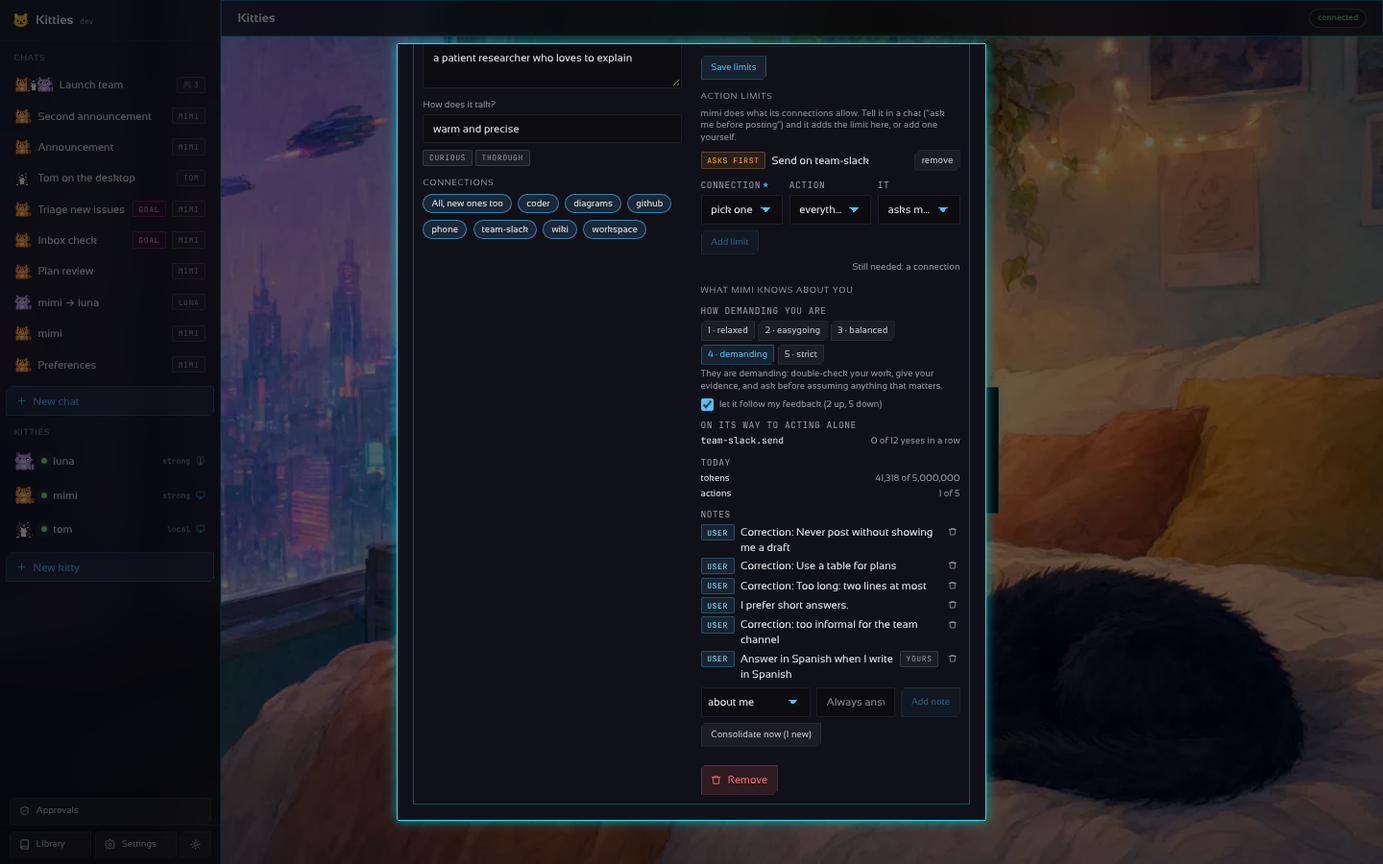
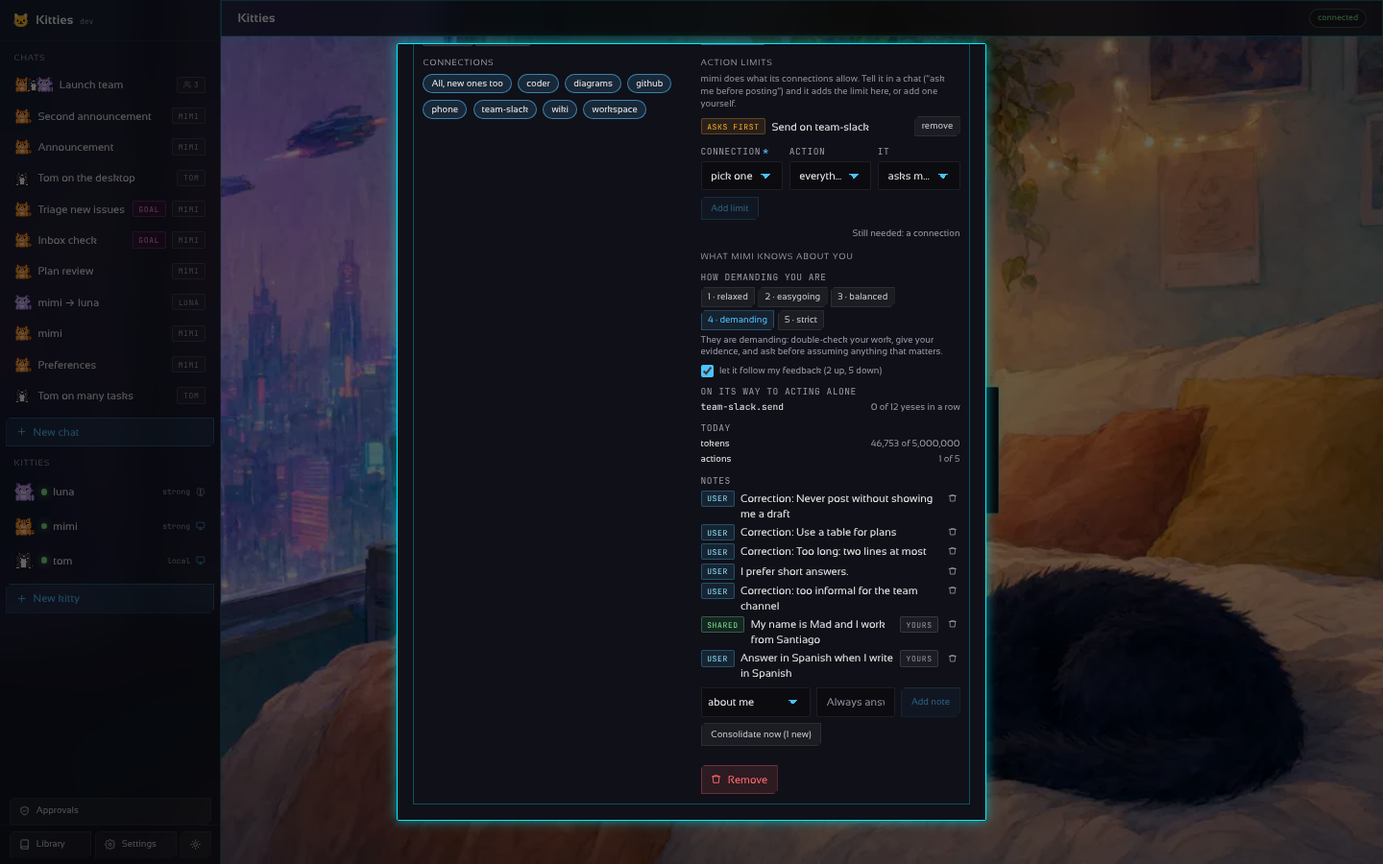
feat(memory): shared notes every kitty knows
A new scope, shared, kept once in memory/_shared.json: it goes into every kitty's
prompt, is listed and editable in each kitty's Memory panel and through the MCP
memory tools, and a kitty can write it too. A kitty's distillation neither
rewrites nor drops it, and removing a kitty keeps it.

Claude-Session: https://claude.ai/code/session_017Z7sUco1f5NiHzWMKUE7RZ

diff --git a/site/es/index.html b/site/es/index.html
@@ -34,7 +34,7 @@
 <section class="proof"><div class="wrap"><ul><li>11+ proveedores de IA</li><li>Linux · macOS · Windows · Android</li><li>Versiones firmadas y con autoactualización</li><li>English · Español · Português</li></ul></div></section>
 <section class="wrap problem"><h2>Los chatbots hablan. Las kitties <em>hacen</em>.</h2><p class="lead">La mayoría de asistentes se quedan en el consejo. Una kitty abre el sitio, llena el formulario, lee el resultado y te informa — dentro de un contenedor, nunca en tu equipo.</p>
 <div class="tw"><table><thead><tr><th></th><th>Chatbot</th><th class="us">Kitties</th></tr></thead><tbody><tr><th scope="row">Trabaja en apps reales</th><td>Solo texto</td><td>Navegador, editor, archivos, ofimática</td></tr><tr><th scope="row">Funciona sin ti</th><td>No</td><td>Metas, horarios, eventos</td></tr><tr><th scope="row">Seguro darle acceso</th><td>Tu equipo</td><td>Escritorio Docker aislado</td></tr><tr><th scope="row">Tú eliges el modelo</th><td>Un proveedor</td><td>Cualquiera, por kitty</td></tr><tr><th scope="row">Mantienes el control</th><td>Esperanza</td><td>Aprobaciones, límites, toma de control</td></tr></tbody></table></div></section>
-<section id="features" class="wrap"><h2>Todo lo que un equipo de agentes necesita</h2><p class="lead">Hecho para la autonomía, diseñado para que sigas al mando.</p><div class="grid"><article class="card"><img src="../img/live.webp" alt="" loading="lazy" width="720" height="450"><h3>Un escritorio real por kitty</h3><p>Pídele abrir un sitio o llenar un formulario. Mira una captura tras cada acción y el chat muestra cada paso. Obsérvala en vivo en H.264 (voxl) o toma el control para una contraseña o un captcha.</p></article><article class="card"><img src="../img/goals.webp" alt="" loading="lazy" width="720" height="450"><h3>Autonomía, con presupuesto</h3><p>Metas programadas o por eventos, presupuesto diario, reintentos, una kitty de respaldo, delegación entre kitties y un diario de todo.</p></article><article class="card"><img src="../img/approvals.webp" alt="" loading="lazy" width="720" height="450"><h3>Una confianza que crece</h3><p>Memoria persistente, pulgares que enseñan tus criterios, límites de acción y aprobaciones que se relajan a medida que gana confianza.</p></article><article class="card"><img src="../img/connectors.webp" alt="" loading="lazy" width="720" height="450"><h3>Conectores, no claves pegadas</h3><p>Slack, GitHub, Gmail, Google Workspace, Microsoft 365, Spotify, Stripe, Home Assistant y más — con inicio de sesión donde el servicio lo permite.</p></article><article class="card"><img src="../img/group.webp" alt="" loading="lazy" width="720" height="450"><h3>Chats grupales</h3><p>Abre un hilo y deja que varias kitties trabajen juntas, cada una con su personalidad y su modelo.</p></article><article class="card"><img src="../img/phone-menu.webp" alt="" loading="lazy" width="720" height="450"><h3>Donde estés</h3><p>CLI, app de escritorio, app Android y modo servidor con https. Las notificaciones llegan al móvil cuando una kitty necesita un sí.</p></article></div></section>
+<section id="features" class="wrap"><h2>Todo lo que un equipo de agentes necesita</h2><p class="lead">Hecho para la autonomía, diseñado para que sigas al mando.</p><div class="grid"><article class="card"><img src="../img/live.webp" alt="" loading="lazy" width="720" height="450"><h3>Un escritorio real por kitty</h3><p>Pídele abrir un sitio o llenar un formulario. Mira una captura tras cada acción y el chat muestra cada paso. Obsérvala en vivo en H.264 (voxl) o toma el control para una contraseña o un captcha.</p></article><article class="card"><img src="../img/goals.webp" alt="" loading="lazy" width="720" height="450"><h3>Autonomía, con presupuesto</h3><p>Metas programadas o por eventos, presupuesto diario, reintentos, una kitty de respaldo, delegación entre kitties y un diario de todo.</p></article><article class="card"><img src="../img/approvals.webp" alt="" loading="lazy" width="720" height="450"><h3>Una confianza que crece</h3><p>Memoria persistente, propia y compartida entre todos los kitties, pulgares que enseñan tus criterios, límites de acción y aprobaciones que se relajan a medida que gana confianza.</p></article><article class="card"><img src="../img/connectors.webp" alt="" loading="lazy" width="720" height="450"><h3>Conectores, no claves pegadas</h3><p>Slack, GitHub, Gmail, Google Workspace, Microsoft 365, Spotify, Stripe, Home Assistant y más — con inicio de sesión donde el servicio lo permite.</p></article><article class="card"><img src="../img/group.webp" alt="" loading="lazy" width="720" height="450"><h3>Chats grupales</h3><p>Abre un hilo y deja que varias kitties trabajen juntas, cada una con su personalidad y su modelo.</p></article><article class="card"><img src="../img/phone-menu.webp" alt="" loading="lazy" width="720" height="450"><h3>Donde estés</h3><p>CLI, app de escritorio, app Android y modo servidor con https. Las notificaciones llegan al móvil cuando una kitty necesita un sí.</p></article></div></section>
 <section id="desktop" class="wrap"><h2>Un escritorio que da gusto mirar</h2><p class="lead">Lumen, un gestor de ventanas ligero basado en Openbox, con su propia barra — apps fijadas, un reproductor, el clima, un reloj — en tema oscuro con iconos Lucide y tipografía Sansation. Bonito a propósito.</p>
 <figure class="one"><img src="../img/desktop.webp" alt="El menú de apps abierto en el escritorio del gatito" loading="lazy" width="1280" height="800"><figcaption>El menú de apps abierto en el escritorio del gatito</figcaption></figure></section>
 <section id="chat" class="wrap"><h2>Chat a un lado, escritorio al otro</h2><p class="lead">En pantallas anchas el chat se divide en dos: las respuestas de la kitty a la izquierda; sus pasos y la última captura, en grande, a la derecha. En el móvil pasan a ser pestañas.</p>

diff --git a/site/index.html b/site/index.html
@@ -35,7 +35,7 @@
 <section class="proof"><div class="wrap"><ul><li>11+ AI providers</li><li>Linux · macOS · Windows · Android</li><li>Signed, self-updating releases</li><li>English · Español · Português</li></ul></div></section>
 <section class="wrap problem"><h2>Chatbots talk. Kitties <em>do</em>.</h2><p class="lead">Most assistants stop at advice. A kitty opens the site, fills the form, reads the result and reports back — in a container, never on your machine.</p>
 <div class="tw"><table><thead><tr><th></th><th>Chatbot</th><th class="us">Kitties</th></tr></thead><tbody><tr><th scope="row">Works on real apps</th><td>Text only</td><td>Browser, editor, files, office</td></tr><tr><th scope="row">Runs while you are away</th><td>No</td><td>Goals, schedules, events</td></tr><tr><th scope="row">Safe to give access</th><td>Your machine</td><td>Isolated Docker desktop</td></tr><tr><th scope="row">Your choice of model</th><td>One vendor</td><td>Any provider, per kitty</td></tr><tr><th scope="row">You stay in control</th><td>Hope</td><td>Approvals, limits, take-over</td></tr></tbody></table></div></section>
-<section id="features" class="wrap"><h2>Everything a team of agents needs</h2><p class="lead">Built for autonomy, designed to stay under your control.</p><div class="grid"><article class="card"><img src="img/live.webp" alt="" loading="lazy" width="720" height="450"><h3>A real desktop per kitty</h3><p>Ask it to open a site or fill a form. It looks at a screenshot after every action and the chat shows each step. Watch it live in H.264 (voxl), or take control for a password or a captcha.</p></article><article class="card"><img src="img/goals.webp" alt="" loading="lazy" width="720" height="450"><h3>Autonomy, with a budget</h3><p>Goals on a schedule or triggered by events, daily budgets, retries, a backup kitty, delegation between kitties and a journal of everything.</p></article><article class="card"><img src="img/approvals.webp" alt="" loading="lazy" width="720" height="450"><h3>Trust that grows</h3><p>Memory that persists, thumbs that teach your standards, action limits and approvals that loosen as a kitty earns trust.</p></article><article class="card"><img src="img/connectors.webp" alt="" loading="lazy" width="720" height="450"><h3>Connectors, not pasted keys</h3><p>Slack, GitHub, Gmail, Google Workspace, Microsoft 365, Spotify, Stripe, Home Assistant and more — with sign-in where the service allows it.</p></article><article class="card"><img src="img/group.webp" alt="" loading="lazy" width="720" height="450"><h3>Group chats</h3><p>Open one thread and let several kitties work on it together, each with its own personality and model.</p></article><article class="card"><img src="img/phone-menu.webp" alt="" loading="lazy" width="720" height="450"><h3>Everywhere you are</h3><p>CLI, desktop app, Android app, and a server mode with https. Notifications reach your phone when a kitty needs a yes.</p></article></div></section>
+<section id="features" class="wrap"><h2>Everything a team of agents needs</h2><p class="lead">Built for autonomy, designed to stay under your control.</p><div class="grid"><article class="card"><img src="img/live.webp" alt="" loading="lazy" width="720" height="450"><h3>A real desktop per kitty</h3><p>Ask it to open a site or fill a form. It looks at a screenshot after every action and the chat shows each step. Watch it live in H.264 (voxl), or take control for a password or a captcha.</p></article><article class="card"><img src="img/goals.webp" alt="" loading="lazy" width="720" height="450"><h3>Autonomy, with a budget</h3><p>Goals on a schedule or triggered by events, daily budgets, retries, a backup kitty, delegation between kitties and a journal of everything.</p></article><article class="card"><img src="img/approvals.webp" alt="" loading="lazy" width="720" height="450"><h3>Trust that grows</h3><p>Memory that persists, its own and shared by every kitty, thumbs that teach your standards, action limits and approvals that loosen as a kitty earns trust.</p></article><article class="card"><img src="img/connectors.webp" alt="" loading="lazy" width="720" height="450"><h3>Connectors, not pasted keys</h3><p>Slack, GitHub, Gmail, Google Workspace, Microsoft 365, Spotify, Stripe, Home Assistant and more — with sign-in where the service allows it.</p></article><article class="card"><img src="img/group.webp" alt="" loading="lazy" width="720" height="450"><h3>Group chats</h3><p>Open one thread and let several kitties work on it together, each with its own personality and model.</p></article><article class="card"><img src="img/phone-menu.webp" alt="" loading="lazy" width="720" height="450"><h3>Everywhere you are</h3><p>CLI, desktop app, Android app, and a server mode with https. Notifications reach your phone when a kitty needs a yes.</p></article></div></section>
 <section id="desktop" class="wrap"><h2>A desktop worth watching</h2><p class="lead">Lumen, a light window manager based on Openbox, with its own shelf — pinned apps, a player, the weather, a clock — in a dark theme with Lucide icons and Sansation type. Beautiful on purpose.</p>
 <figure class="one"><img src="img/desktop.webp" alt="The apps menu open on the kitty desktop" loading="lazy" width="1280" height="800"><figcaption>The apps menu open on the kitty desktop</figcaption></figure></section>
 <section id="chat" class="wrap"><h2>Chat on one side, desktop on the other</h2><p class="lead">On a wide screen the chat splits in two: the kitty’s replies on the left, its steps and the latest screenshot, large, on the right. On a phone the two become tabs.</p>

diff --git a/desktop/frontend/src/Memory.tsx b/desktop/frontend/src/Memory.tsx
@@ -14,7 +14,11 @@ const LABEL = "block text-xs text-[var(--t3)] mb-1 mt-3 uppercase tracking-wider
 const INPUT = "w-full px-3 py-2 text-sm";
 const LEVELS = ["relaxed", "easygoing", "balanced", "demanding", "strict"];
 
-const SCOPE_TAG: Record<string, string> = { user: "tag-accent", work: "tag-amber" };
+const SCOPE_TAG: Record<string, string> = {
+  user: "tag-accent",
+  work: "tag-amber",
+  shared: "tag-green",
+};
 
 export function MemoryPanel({ kitty }: { kitty: Kitty }) {
   const [view, setView] = useState<MemoryView | null>(null);
@@ -140,7 +144,10 @@ export function MemoryPanel({ kitty }: { kitty: Kitty }) {
       <div class="flex flex-col gap-1" data-testid="notes">
         {view.notes.map((n) => (
           <div key={n.id} class="flex items-start gap-2 text-sm">
-            <span class={`tag ${SCOPE_TAG[n.scope] || "tag-magenta"}`}>
+            <span
+              class={`tag ${SCOPE_TAG[n.scope] || "tag-magenta"}`}
+              title={n.scope === "shared" ? t("Every kitty knows it") : undefined}
+            >
               {n.scope.startsWith("project:") ? n.scope.replace("project:", "") : t(n.scope)}
             </span>
             <span class="flex-1 min-w-0">{n.text}</span>
@@ -168,6 +175,7 @@ export function MemoryPanel({ kitty }: { kitty: Kitty }) {
         >
           <option value="user">{t("about me")}</option>
           <option value="work">{t("about the work")}</option>
+          <option value="shared">{t("for every kitty")}</option>
         </select>
         <input
           class={INPUT}

diff --git a/desktop/frontend/e2e/screens.spec.ts b/desktop/frontend/e2e/screens.spec.ts
@@ -405,7 +405,10 @@ test("what a kitty knows about you: its level of demand, its notes and how far i
   await expect(page.getByTestId("level")).toContainText("They are demanding");
   const notes = page.getByTestId("notes");
   await expect(notes).toContainText("Answer in Spanish when I write in Spanish");
-  await expect(notes.locator(".tag", { hasText: "yours" })).toHaveCount(1);
+  await expect(notes.locator(".tag", { hasText: "yours" })).toHaveCount(2);
+  // The shared note is every kitty's: tom sees it too.
+  await expect(notes.locator(".tag", { hasText: "shared" })).toHaveCount(1);
+  await expect(notes).toContainText("My name is Mad and I work from Santiago");
   await expect(notes).toContainText("Correction: Too long: two lines at most");
   await expect(notes).toContainText("I prefer short answers");
   // The yes it gave to Slack is on its way to being trusted: twelve in a row for a demanding person.
@@ -428,6 +431,9 @@ test("what a kitty knows about you: its level of demand, its notes and how far i
   await expect(page.getByTestId("level")).toContainText("They are easygoing");
   await memory.getByRole("button", { name: "4 · demanding" }).click();
   await expect(page.getByTestId("level")).toContainText("They are demanding");
+  await open(page, `#kitty/${ids.tom}`);
+  await openConfig(page);
+  await expect(page.getByTestId("notes")).toContainText("My name is Mad and I work from Santiago");
 });
 
 test("notifications: pick a channel, send a test and be told when something waits", async ({

diff --git a/desktop/frontend/e2e/global-setup.ts b/desktop/frontend/e2e/global-setup.ts
@@ -153,6 +153,11 @@ export default async function globalSetup(): Promise<() => Promise<void>> {
     text: "Answer in Spanish when I write in Spanish",
     scope: "user",
   });
+  // And one every kitty knows.
+  await api("POST", "/v1/kitties/mimi/memory", {
+    text: "My name is Mad and I work from Santiago",
+    scope: "shared",
+  });
   const memo = await newChat(["mimi"], "Preferences");
   await say(memo, "Mimi, remember that I prefer short answers.");
   await api("POST", `/v1/chats/${single}/turns/1/feedback`, {

diff --git a/desktop/frontend/src/i18n/es/work.ts b/desktop/frontend/src/i18n/es/work.ts
@@ -228,6 +228,9 @@ const dict: Dictionary = {
   "Scope of the note": "Alcance de la nota",
   "about me": "sobre mí",
   "about the work": "sobre el trabajo",
+  shared: "compartida",
+  "for every kitty": "para todos los kitties",
+  "Every kitty knows it": "Todos los kitties la conocen",
   "Always answer in Spanish": "Responde siempre en español",
   "A note for it to keep": "Una nota para que la guarde",
   "Add note": "Agregar nota",

diff --git a/desktop/frontend/src/i18n/pt/work.ts b/desktop/frontend/src/i18n/pt/work.ts
@@ -225,6 +225,9 @@ const dict: Dictionary = {
   "Scope of the note": "Alcance da nota",
   "about me": "sobre mim",
   "about the work": "sobre o trabalho",
+  shared: "compartilhada",
+  "for every kitty": "para todos os kitties",
+  "Every kitty knows it": "Todos os kitties a conhecem",
   "Always answer in Spanish": "Responda sempre em português",
   "A note for it to keep": "Uma nota para ele guardar",
   "Add note": "Adicionar nota",

diff --git a/internal/memory/memory.go b/internal/memory/memory.go
@@ -20,17 +20,23 @@ import (
 	"time"
 )
 
-// The scopes of a note: what the person likes, how the work goes, or a project.
+// The scopes of a note: what the person likes, how the work goes, a project, or what every
+// kitty should know (shared).
 const (
-	ScopeUser = "user"
-	ScopeWork = "work"
+	ScopeUser   = "user"
+	ScopeWork   = "work"
+	ScopeShared = "shared"
 )
+
+// sharedKey is where the notes every kitty shares are kept, beside the kitties' own. A kitty's
+// id never starts with an underscore, so it cannot clash with one.
+const sharedKey = "_shared"
 
 var projectScope = regexp.MustCompile(`^project:[a-z0-9][a-z0-9 _-]{0,39}$`)
 
-// ValidScope reports whether s names a scope: user, work or project:<name>.
+// ValidScope reports whether s names a scope: user, work, shared or project:<name>.
 func ValidScope(s string) bool {
-	return s == ScopeUser || s == ScopeWork || projectScope.MatchString(s)
+	return s == ScopeUser || s == ScopeWork || s == ScopeShared || projectScope.MatchString(s)
 }
 
 // Slug is a project's name as a scope: lowercase letters, digits, spaces, dashes.
@@ -186,7 +192,10 @@ func (s *Store) Remember(kitty, scope, text, source string, pinned bool) (*Note,
 		scope = ScopeUser
 	}
 	if !ValidScope(scope) {
-		return nil, fmt.Errorf("scope %q is not user, work or project:<name>", scope)
+		return nil, fmt.Errorf("scope %q is not user, work, shared or project:<name>", scope)
+	}
+	if scope == ScopeShared {
+		kitty = sharedKey
 	}
 	s.mu.Lock()
 	defer s.mu.Unlock()
@@ -227,16 +236,18 @@ func (s *Store) evict(f *file) {
 	}
 }
 
-// Forget removes one note.
+// Forget removes one note, the kitty's own or a shared one.
 func (s *Store) Forget(kitty, id string) error {
 	s.mu.Lock()
 	defer s.mu.Unlock()
-	f := s.load(kitty)
-	for i, n := range f.Notes {
-		if n.ID == id {
-			f.Notes = append(f.Notes[:i], f.Notes[i+1:]...)
-			s.save(kitty, f)
-			return nil
+	for _, key := range []string{kitty, sharedKey} {
+		f := s.load(key)
+		for i, n := range f.Notes {
+			if n.ID == id {
+				f.Notes = append(f.Notes[:i], f.Notes[i+1:]...)
+				s.save(key, f)
+				return nil
+			}
 		}
 	}
 	return fmt.Errorf("no such note %q", id)
@@ -254,12 +265,17 @@ func (s *Store) ForgetKitty(kitty string) error {
 	return err
 }
 
-// Notes returns a kitty's notes of a scope ("" for all), strongest first.
+// Notes returns a kitty's notes of a scope ("" for all), strongest first. They include the
+// shared notes, which every kitty sees.
 func (s *Store) Notes(kitty, scope string) []Note {
 	s.mu.Lock()
 	defer s.mu.Unlock()
 	var out []Note
-	for _, n := range s.load(kitty).Notes {
+	all := s.load(kitty).Notes
+	if kitty != sharedKey {
+		all = append(append([]*Note(nil), all...), s.load(sharedKey).Notes...)
+	}
+	for _, n := range all {
 		if scope == "" || n.Scope == scope {
 			out = append(out, *n)
 		}
@@ -378,7 +394,8 @@ func (s *Store) Distilled(kitty string, notes []Note) {
 		for _, k := range kept {
 			dup = dup || (k.Scope == n.Scope && norm(k.Text) == norm(n.Text))
 		}
-		if dup || !ValidScope(n.Scope) || strings.TrimSpace(n.Text) == "" {
+		// Shared notes are tended by hand or by remember, never replaced by one kitty's distillation.
+		if dup || !ValidScope(n.Scope) || n.Scope == ScopeShared || strings.TrimSpace(n.Text) == "" {
 			continue
 		}
 		kept = append(kept, &Note{ID: s.id(), Scope: n.Scope, Text: clip(n.Text, 240), Strength: max(1, n.Strength), At: s.now(), Updated: s.now(), Source: "distilled"})
@@ -408,12 +425,14 @@ func (s *Store) Prompt(kitty, person, project string) string {
 	}
 	notes := s.Notes(kitty, "")
 	p := s.Profile(kitty)
-	var user, work, proj []string
+	var user, work, proj, shared []string
 	for _, n := range notes {
 		line := "- " + n.Text
 		switch {
 		case n.Scope == ScopeUser && len(user) < 12:
 			user = append(user, line)
+		case n.Scope == ScopeShared && len(shared) < 12:
+			shared = append(shared, line)
 		case n.Scope == ScopeWork && len(work) < 8:
 			work = append(work, line)
 		case project != "" && n.Scope == "project:"+project && len(proj) < 10:
@@ -424,6 +443,9 @@ func (s *Store) Prompt(kitty, person, project string) string {
 	fmt.Fprintf(&b, "How demanding %s is with you: %d of 5. %s\n", person, p.Demand, LevelText(p.Demand))
 	if len(user) > 0 {
 		fmt.Fprintf(&b, "What you have learned about %s and how they like things done (follow it):\n%s\n", person, strings.Join(user, "\n"))
+	}
+	if len(shared) > 0 {
+		fmt.Fprintf(&b, "What every kitty of %s knows (shared, follow it):\n%s\n", person, strings.Join(shared, "\n"))
 	}
 	if len(work) > 0 {
 		fmt.Fprintf(&b, "Lessons about the work:\n%s\n", strings.Join(work, "\n"))

diff --git a/internal/memory/memory_test.go b/internal/memory/memory_test.go
@@ -19,7 +19,7 @@ func open(t *testing.T) *Store {
 }
 
 func TestScopesAndSlugs(t *testing.T) {
-	for _, ok := range []string{"user", "work", "project:launch", "project:q4 report", "project:a-b_c"} {
+	for _, ok := range []string{"user", "work", "shared", "project:launch", "project:q4 report", "project:a-b_c"} {
 		if !ValidScope(ok) {
 			t.Errorf("%q is a scope", ok)
 		}
@@ -238,5 +238,59 @@ func TestDistilledPersistenceAndPrompt(t *testing.T) {
 		if _, err := bad.Remember("k", ScopeUser, "x", "kitty", false); err != nil {
 			t.Error("an unwritable memory still works in memory")
 		}
+	}
+}
+
+func TestSharedNotes(t *testing.T) {
+	s := open(t)
+	sh, err := s.Remember("k1", ScopeShared, "Answer in Spanish", "person", true)
+	if err != nil || sh.Scope != ScopeShared {
+		t.Fatalf("shared: %+v %v", sh, err)
+	}
+	if _, err := s.Remember("k1", ScopeUser, "Likes tables", "kitty", false); err != nil {
+		t.Fatal(err)
+	}
+	// Every kitty sees the shared note; only k1 its own.
+	if n := s.Notes("k2", ""); len(n) != 1 || n[0].Text != "Answer in Spanish" {
+		t.Errorf("k2 notes: %+v", n)
+	}
+	if n := s.Notes("k1", ""); len(n) != 2 {
+		t.Errorf("k1 notes: %+v", n)
+	}
+	if n := s.Notes("k1", ScopeShared); len(n) != 1 {
+		t.Errorf("k1 shared: %+v", n)
+	}
+	if p := s.Prompt("k2", "Mad", ""); !strings.Contains(p, "What every kitty of Mad knows") || !strings.Contains(p, "Answer in Spanish") {
+		t.Errorf("prompt: %q", p)
+	}
+	// The same thing told from another kitty strengthens the one shared note.
+	if again, _ := s.Remember("k2", ScopeShared, "answer in  spanish", "kitty", false); again.ID != sh.ID || again.Strength != 2 {
+		t.Errorf("again: %+v", again)
+	}
+	// A distillation neither drops nor writes shared notes.
+	s.Distilled("k1", []Note{{Scope: ScopeShared, Text: "Invented"}, {Scope: ScopeWork, Text: "Check twice"}})
+	if n := s.Notes("k1", ScopeShared); len(n) != 1 || n[0].Text != "Answer in Spanish" {
+		t.Errorf("after distill: %+v", n)
+	}
+	// Removing a kitty keeps what is shared.
+	if err := s.ForgetKitty("k1"); err != nil {
+		t.Fatal(err)
+	}
+	if n := s.Notes("k3", ""); len(n) != 1 {
+		t.Errorf("after ForgetKitty: %+v", n)
+	}
+	// It is kept on disk, and any kitty can forget it.
+	s2 := Open(s.dir)
+	if n := s2.Notes("k9", ScopeShared); len(n) != 1 {
+		t.Errorf("reopened: %+v", n)
+	}
+	if err := s2.Forget("k9", sh.ID); err != nil {
+		t.Fatal(err)
+	}
+	if n := s2.Notes("k2", ""); len(n) != 0 {
+		t.Errorf("after forget: %+v", n)
+	}
+	if err := s2.Forget("k9", "nope"); err == nil {
+		t.Error("forgetting a missing note")
 	}
 }

diff --git a/internal/gateway/mcp_memory.go b/internal/gateway/mcp_memory.go
@@ -14,7 +14,7 @@ func (s *Server) mcpMemoryTools() []mcp.Tool {
 	return []mcp.Tool{
 		{Name: "memory_list", Description: "What a kitty knows about the person and the work: its notes (id, scope, text, strength), how demanding the person is, and the trust earned per action.",
 			InputSchema: obj([]string{"ref"}, map[string]any{"ref": str("the kitty's id or name"),
-				"scope": str("only this scope: user, work or project:<name>; empty is all")}),
+				"scope": str("only this scope: user, work, shared or project:<name>; empty is all")}),
 			Annotations: mcp.Annotations{ReadOnly: true},
 			Call: func(_ context.Context, raw json.RawMessage) (mcp.Result, error) {
 				var a struct {
@@ -45,7 +45,7 @@ func (s *Server) mcpMemoryTools() []mcp.Tool {
 		{Name: "memory_remember", Description: "Tell a kitty something to keep in mind from now on (a preference, a correction, a fact of a project). Short, one thing each, never secrets. It is pinned: a distillation never drops it.",
 			InputSchema: obj([]string{"ref", "text"}, map[string]any{"ref": str("the kitty's id or name"),
 				"text":  str("the note, up to 240 characters"),
-				"scope": str("user (how the person likes things, the default), work (a lesson about the work) or project:<name>")}),
+				"scope": str("user (how the person likes things, the default), work (a lesson about the work), shared (every kitty sees it) or project:<name>")}),
 			Annotations: mcp.Annotations{},
 			Call: func(_ context.Context, raw json.RawMessage) (mcp.Result, error) {
 				var a struct {

diff --git a/internal/chat/actions.go b/internal/chat/actions.go
@@ -88,7 +88,7 @@ func (s *Service) toolSet(k *kitty.Kitty, allowed map[string]string) []provider.
 	}
 	if s.memory != nil {
 		tools = append(tools,
-			provider.Tool{Name: "memory_remember", Description: "Keep a note about the person or the work for next time: a preference, a correction, a fact of the project. Short, durable, one thing each.", Parameters: obj(map[string]any{"text": str("the note"), "scope": str("user (how the person likes things, the default), work (a lesson about the work) or project (about this thread's project)")}, "text")},
+			provider.Tool{Name: "memory_remember", Description: "Keep a note about the person or the work for next time: a preference, a correction, a fact of the project. Short, durable, one thing each.", Parameters: obj(map[string]any{"text": str("the note"), "scope": str("user (how the person likes things, the default), work (a lesson about the work), project (about this thread's project) or shared (every kitty should know it)")}, "text")},
 			provider.Tool{Name: "memory_forget", Description: "Drop a note that is wrong or out of date.", Parameters: obj(map[string]any{"id": str("the note's id")}, "id")},
 			provider.Tool{Name: "memory_list", Description: "Read your notes, with their ids.", Parameters: obj(map[string]any{})},
 		)

diff --git a/internal/chat/learn_test.go b/internal/chat/learn_test.go
@@ -219,6 +219,7 @@ func TestDistillation(t *testing.T) {
 	ana, _ := s.fleet.Get("ana")
 	_, _ = m.Remember(ana.ID, memory.ScopeUser, "Pat wrote this one", "person", true)
 	_, _ = m.Remember(ana.ID, memory.ScopeUser, "Correction: too long", "feedback", false)
+	_, _ = m.Remember(ana.ID, memory.ScopeShared, "Every kitty answers in Spanish", "person", true)
 	m.Record(ana.ID, memory.Feedback{Rating: "down", Note: "too long", Request: "summarise", Excerpt: "a very long summary"})
 	// The brain is asked with the notes and the verdicts, and its list replaces what is not pinned.
 	sa.replies = []string{"Here you go:\n[{\"scope\": \"user\", \"text\": \"Keep answers to two lines\"}, {\"scope\": \"WORK\", \"text\": \"Summaries first\"}, {\"text\": \"No scope means user\"}]\nDone."}
@@ -227,6 +228,9 @@ func TestDistillation(t *testing.T) {
 		t.Fatal(err)
 	}
 	asked := sa.seen[0][1].Content
+	if strings.Contains(asked, "Every kitty answers in Spanish") {
+		t.Errorf("the shared notes are not one kitty's to distill: %q", asked)
+	}
 	if !strings.Contains(asked, "[user] Correction: too long") || !strings.Contains(asked, "- down | asked: summarise | the kitty did: a very long summary | the person said: too long") {
 		t.Errorf("the brain was asked %q", asked)
 	}
